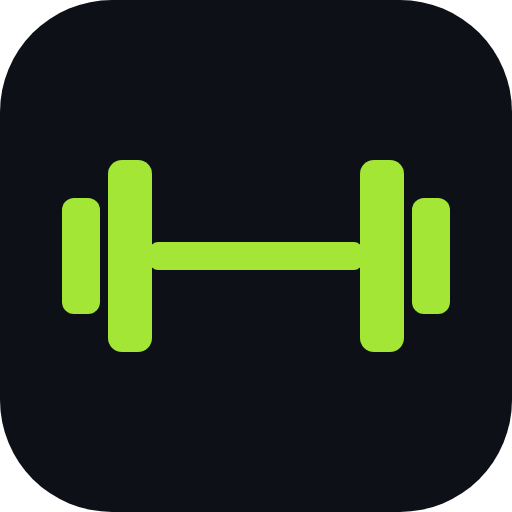
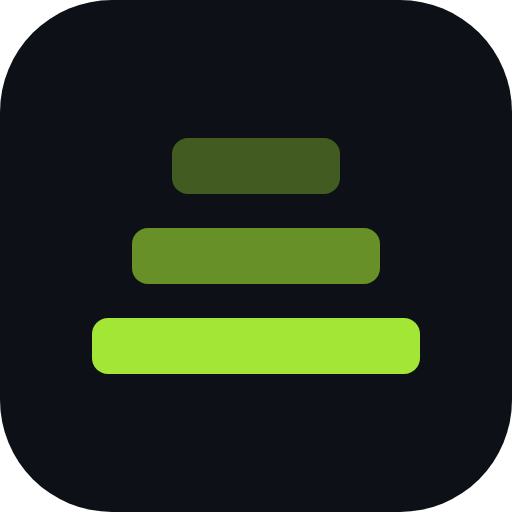
Rename the app from Code Gym to Base Case
Updates the name in the UI, page title, install manifest, README and
package metadata, and replaces the dumbbell icon with a stack of call
frames whose bottom frame (the base case) is highlighted.

Storage keys keep the old prefix so existing progress still loads, and
backups exported under the old name can still be restored.

Claude-Session: https://claude.ai/code/session_0158v8sgwN4D6HvzteSVeBQL

Changed region(s): [[0.0938, 0.25, 0.9062, 0.75]]

diff --git a/src/lib/store.ts b/src/lib/store.ts
@@ -67,6 +67,7 @@ export interface AppState {
   daily: Record<string, { id: string; correct?: boolean }>;
 }
 
+// Keeps the app's former name (Code Gym) so progress saved before the rename still loads.
 export const STORAGE_PREFIX = 'codegym:';
 const KEY = `${STORAGE_PREFIX}state`;
 
@@ -299,19 +300,25 @@ export const designDraftKey = (designId: string) => `${STORAGE_PREFIX}design:${d
 // ------------------------------------------------------------------ backup
 
 export interface Backup {
-  app: 'code-gym';
+  app: 'base-case' | 'code-gym';
   exportedAt: string;
   data: Record<string, string>;
+}
+
+/** True for backups from this app, including ones exported under its former name. */
+export function isBackup(value: unknown): value is Backup {
+  const app = (value as Backup | null)?.app;
+  return app === 'base-case' || app === 'code-gym';
 }
 
 export function exportBackup(): Backup {
   const data: Record<string, string> = {};
   for (const k of storage.keys()) data[k] = storage.get(k) ?? '';
-  return { app: 'code-gym', exportedAt: new Date().toISOString(), data };
+  return { app: 'base-case', exportedAt: new Date().toISOString(), data };
 }
 
 export function importBackup(backup: Backup) {
-  if (backup?.app !== 'code-gym' || typeof backup.data !== 'object') throw new Error('Not a Code Gym backup file.');
+  if (!isBackup(backup) || typeof backup.data !== 'object') throw new Error('Not a Base Case backup file.');
   const parsed = JSON.parse(backup.data[KEY] ?? 'null');
   if (!parsed || parsed.version !== 1) throw new Error('Backup has no progress data.');
   for (const k of storage.keys()) storage.remove(k);

diff --git a/src/pages/Settings.tsx b/src/pages/Settings.tsx
@@ -3,7 +3,7 @@ import { Icon } from '../components/Icon';
 import { InstallCard } from '../components/InstallCard';
 import { ConfirmButton } from '../components/ui';
 import { allDesigns, allLessons, allProblems, allQuestions } from '../lib/content';
-import { exportBackup, importBackup, resetAll, storageWorks, updateSettings, useAppState, type Backup } from '../lib/store';
+import { exportBackup, importBackup, isBackup, resetAll, storageWorks, updateSettings, useAppState, type Backup } from '../lib/store';
 import { LANG_LABEL, LANGS } from '../lib/types';
 
 function useStorageInfo() {
@@ -32,7 +32,7 @@ export function Settings() {
     const url = URL.createObjectURL(blob);
     const a = document.createElement('a');
     a.href = url;
-    a.download = `code-gym-backup-${new Date().toISOString().slice(0, 10)}.json`;
+    a.download = `base-case-backup-${new Date().toISOString().slice(0, 10)}.json`;
     a.click();
     setTimeout(() => URL.revokeObjectURL(url), 1000);
   };
@@ -41,8 +41,8 @@ export function Settings() {
 
   const upload = async (file: File) => {
     try {
-      const backup = JSON.parse(await file.text()) as Backup;
-      if (backup?.app !== 'code-gym') throw new Error('This file is not a Code Gym backup.');
+      const backup: unknown = JSON.parse(await file.text());
+      if (!isBackup(backup)) throw new Error('This file is not a Base Case backup.');
       setPending(backup);
       setMsg(null);
     } catch (e) {

diff --git a/src/components/InstallCard.tsx b/src/components/InstallCard.tsx
@@ -1,14 +1,14 @@
 import { useInstall } from '../lib/install';
 import { Icon } from './Icon';
 
-/** Explains how to put Code Gym on the home screen, with a one-tap install where the browser supports it. */
+/** Explains how to put Base Case on the home screen, with a one-tap install where the browser supports it. */
 export function InstallCard() {
   const install = useInstall();
   if (install.installed) {
     return (
       <div className="card row">
         <Icon name="check" size={18} />
-        <span>Installed. Code Gym runs from your home screen, even offline.</span>
+        <span>Installed. Base Case runs from your home screen, even offline.</span>
       </div>
     );
   }
@@ -24,7 +24,7 @@ export function InstallCard() {
       {install.canPrompt ? (
         <div>
           <button className="btn primary" onClick={() => install.prompt()}>
-            Install Code Gym
+            Install Base Case
           </button>
         </div>
       ) : install.ios ? (

diff --git a/src/lib/lib.test.ts b/src/lib/lib.test.ts
@@ -5,6 +5,7 @@ import { parseSignature, pythonStarter, javascriptStarter } from './content/sign
 import { outputsMatch } from './runner/compare';
 import { prepareJs } from './runner/jsHarness';
 import { addDays, schedule } from './srs';
+import { isBackup } from './store';
 
 describe('markdown helpers', () => {
   it('splits sections but ignores headings inside code fences', () => {
@@ -126,5 +127,14 @@ describe('srs', () => {
     expect(c.interval).toBe(1);
     expect(c.lapses).toBe(1);
     expect(addDays('2026-02-28', 1)).toBe('2026-03-01');
+  });
+});
+
+describe('backup', () => {
+  it('accepts backups from before the rename', () => {
+    expect(isBackup({ app: 'base-case', data: {} })).toBe(true);
+    expect(isBackup({ app: 'code-gym', data: {} })).toBe(true);
+    expect(isBackup({ app: 'other', data: {} })).toBe(false);
+    expect(isBackup(null)).toBe(false);
   });
 });

diff --git a/src/App.tsx b/src/App.tsx
@@ -109,7 +109,7 @@ function UpdatePrompt() {
   if (needRefresh)
     return (
       <div className="toast" role="status">
-        <span>A new version of Code Gym is available.</span>
+        <span>A new version of Base Case is available.</span>
         <button className="btn primary small" onClick={() => updateServiceWorker(true)}>
           Reload
         </button>
@@ -191,7 +191,7 @@ export function App() {
       <nav className="sidebar" aria-label="Main">
         <a className="brand" href="#/">
           <img src={`${import.meta.env.BASE_URL}icon.svg`} alt="" />
-          <span>Code Gym</span>
+          <span>Base Case</span>
         </a>
         {NAV.map((item) => (
           <a key={item.path} href={`#${item.path}`} className={`nav-link ${active === item.match ? 'active' : ''}`}>

diff --git a/vite.config.ts b/vite.config.ts
@@ -14,8 +14,8 @@ export default defineConfig({
       registerType: 'prompt',
       includeAssets: ['icon.svg', 'apple-touch-icon.png'],
       manifest: {
-        name: 'Code Gym: interview practice',
-        short_name: 'Code Gym',
+        name: 'Base Case: interview practice',
+        short_name: 'Base Case',
         description: 'Offline practice for coding interviews and system design.',
         theme_color: '#0d1117',
         background_color: '#0d1117',

diff --git a/index.html b/index.html
@@ -7,7 +7,7 @@
     <meta name="description" content="Offline practice for coding interviews and system design." />
     <link rel="icon" type="image/svg+xml" href="/icon.svg" />
     <link rel="apple-touch-icon" href="/apple-touch-icon.png" />
-    <title>Code Gym</title>
+    <title>Base Case</title>
   </head>
   <body>
     <div id="root"></div>

diff --git a/src/lib/runner/harness.py b/src/lib/runner/harness.py
@@ -1,4 +1,4 @@
-"""Code Gym Python test harness.
+"""Base Case Python test harness.
 
 Loaded into Pyodide by the browser worker, and imported by the local
 verification scripts (scripts/py_runner.py). Keep it compatible with

diff --git a/README.md b/README.md
@@ -1,6 +1,6 @@
-# Code Gym
+# Base Case
 
-A gym for coding interviews and system design that works **fully offline**: on a laptop without Wi-Fi, on a plane, or on your phone between sets.
+Interview practice for coding and system design that works **fully offline**: on a laptop without Wi-Fi, on a plane, or on your phone between sets.
 
 - **138 coding problems** across 18 patterns (arrays, two pointers, sliding window, trees, graphs, DP, …). Solve them in **Python or JavaScript** right in the browser, with instant tests, hints, explanations and reference solutions in both languages.
 - **Quick Reps**: 3-minute, tap-only sessions built for a phone. Fill-in-the-blank code, "order the lines" drills and system design questions, with no typing needed.
